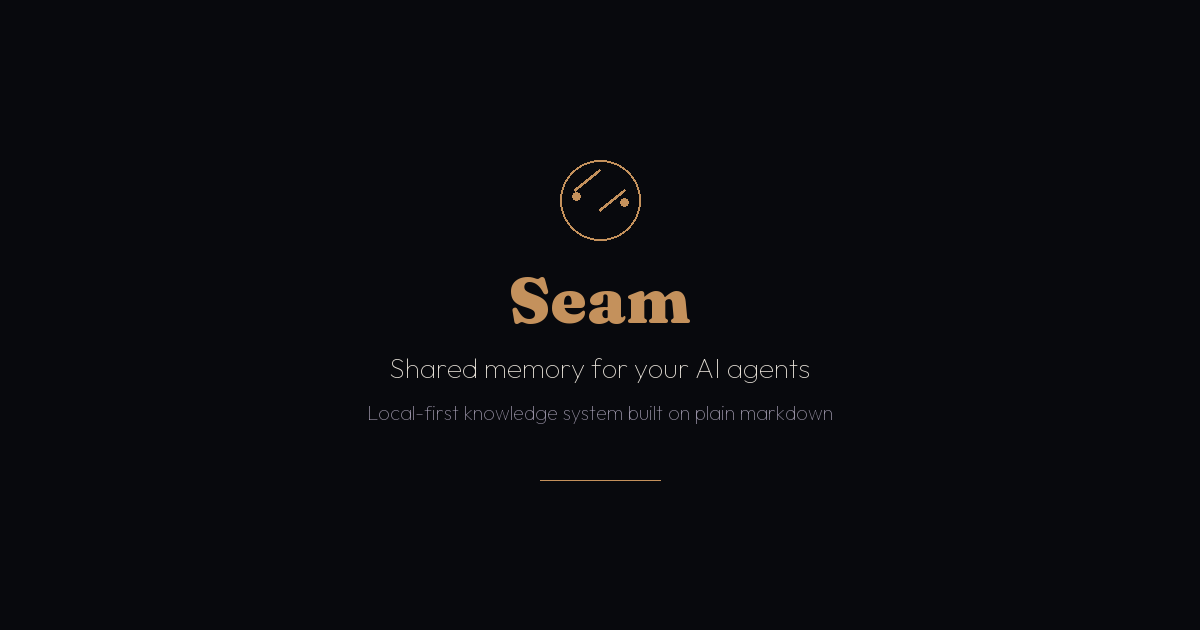
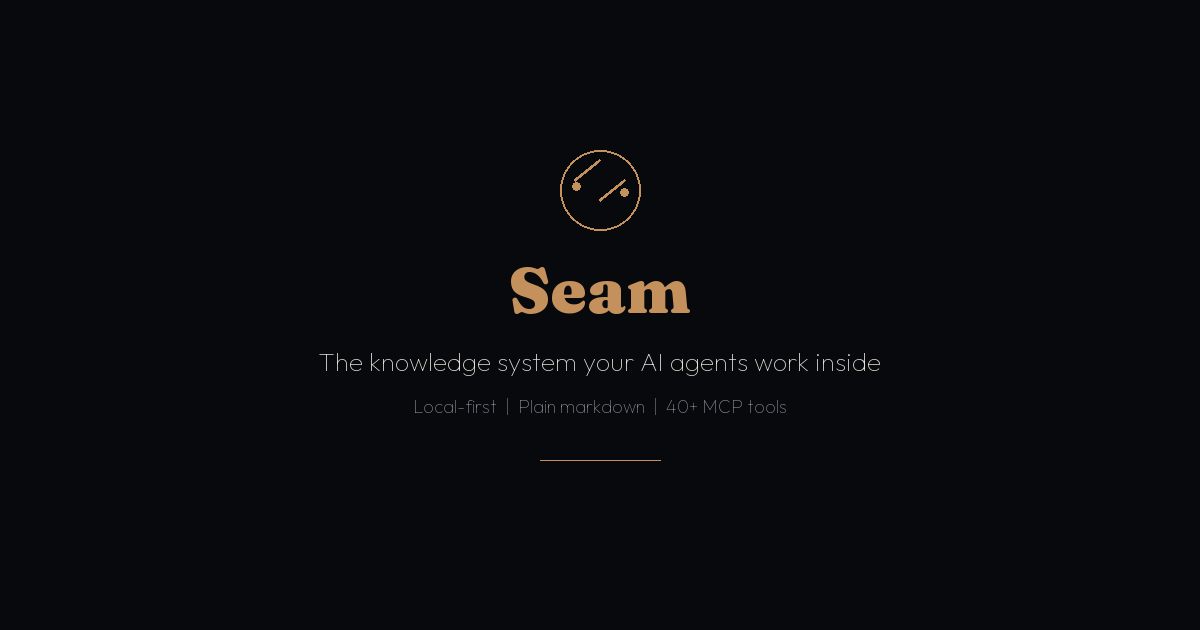
docs: reposition from "memory layer" to "knowledge system agents work inside"
Competitive research showed "shared memory for AI agents" is commodity
messaging (Mem0, Basic Memory, MemMachine all claim it). Seam's actual
differentiator is that it's a full knowledge system -- notes, projects,
tasks, wikilinks, knowledge graph, daily briefings, librarian -- that
agents operate inside through 40+ MCP tools. Not a key-value store.

Updated: README tagline and narrative, landing page hero/meta/OG tags,
MCP doc opening, AI doc opening, OG image.

diff --git a/docs/index.html b/docs/index.html
@@ -3,21 +3,21 @@
 <head>
 <meta charset="utf-8">
 <meta name="viewport" content="width=device-width, initial-scale=1">
-<title>Seam -- Shared Memory for Your AI Agents</title>
-<meta name="description" content="Seam gives your AI agents shared, persistent memory through an MCP server. Plain markdown files on disk, 100% local by default. Works with Claude Code, Cursor, and any MCP-compatible tool.">
+<title>Seam -- The Knowledge System Your AI Agents Work Inside</title>
+<meta name="description" content="Seam is a local-first knowledge system that your AI agents work inside -- not just a memory layer. Notes, projects, tasks, knowledge graph, and 40+ MCP tools. Plain markdown, 100% local. Works with Claude Code, Cursor, and any MCP client.">
 <meta name="theme-color" content="#08090d">
 <link rel="canonical" href="https://0x3k.github.io/seam/">
 
 <meta property="og:type" content="website">
-<meta property="og:title" content="Seam -- Shared Memory for Your AI Agents">
-<meta property="og:description" content="Your agents forget everything between conversations. Seam gives them persistent context through plain markdown files on your machine.">
+<meta property="og:title" content="Seam -- The Knowledge System Your AI Agents Work Inside">
+<meta property="og:description" content="Not a memory layer -- a full knowledge system your agents operate inside. Notes, projects, tasks, knowledge graph, 40+ MCP tools. Local-first, plain markdown.">
 <meta property="og:image" content="https://0x3k.github.io/seam/og-image.png">
 <meta property="og:url" content="https://0x3k.github.io/seam/">
 <meta property="og:site_name" content="Seam">
 
 <meta name="twitter:card" content="summary_large_image">
-<meta name="twitter:title" content="Seam -- Shared Memory for Your AI Agents">
-<meta name="twitter:description" content="Your agents forget everything between conversations. Seam gives them persistent context through plain markdown files on your machine.">
+<meta name="twitter:title" content="Seam -- The Knowledge System Your AI Agents Work Inside">
+<meta name="twitter:description" content="Not a memory layer -- a full knowledge system your agents operate inside. Notes, projects, tasks, knowledge graph, 40+ MCP tools. Local-first, plain markdown.">
 <meta name="twitter:image" content="https://0x3k.github.io/seam/og-image.png">
 
 <link rel="icon" href="seam.svg" type="image/svg+xml">
@@ -33,7 +33,7 @@
   "@context": "https://schema.org",
   "@type": "SoftwareApplication",
   "name": "Seam",
-  "description": "A local-first knowledge system that serves as shared memory for AI agents through an MCP server. Plain markdown files on disk.",
+  "description": "A local-first knowledge system -- notes, projects, tasks, knowledge graph -- that AI agents work inside through 40+ MCP tools. Plain markdown files on disk.",
   "url": "https://0x3k.github.io/seam/",
   "applicationCategory": "DeveloperApplication",
   "operatingSystem": "macOS, Linux",
@@ -587,8 +587,8 @@ a:focus-visible, button:focus-visible {
       <circle cx="30" cy="45" r="4" fill="#c4915c"/>
       <circle cx="70" cy="60" r="4" fill="#c4915c"/>
     </svg>
-    <h1 id="hero-heading">Shared memory for your AI agents</h1>
-    <p class="hero-sub">Your agents forget everything between conversations. Seam gives them persistent context through plain markdown files on your machine.</p>
+    <h1 id="hero-heading">The knowledge system your AI agents work inside</h1>
+    <p class="hero-sub">Not a memory layer. A full workspace -- notes, projects, tasks, knowledge graph -- that every agent operates inside through MCP. Plain markdown on your machine.</p>
     <div class="hero-ctas">
       <a href="#quickstart" class="btn-primary">Get Started</a>
       <a href="https://github.com/0x3k/seam" class="btn-ghost">View on GitHub</a>
@@ -600,16 +600,16 @@ a:focus-visible, button:focus-visible {
 <!-- PROBLEM -->
 <section class="problem" aria-labelledby="problem-heading">
   <div class="container">
-    <h2 id="problem-heading" class="section-title fade-in">The problem with AI agents today</h2>
-    <p class="section-sub fade-in">You talk to a lot of agents. Claude Code for one task, Cursor for another. Each one starts from zero.</p>
+    <h2 id="problem-heading" class="section-title fade-in">Memory layers aren't enough</h2>
+    <p class="section-sub fade-in">Your agents need more than a key-value store. They need a workspace.</p>
     <div class="pain-grid">
       <div class="pain-card fade-in">
         <svg viewBox="0 0 32 32" fill="none" xmlns="http://www.w3.org/2000/svg" aria-hidden="true">
           <circle cx="16" cy="16" r="14" stroke="#c4915c" stroke-width="1.5" fill="none"/>
           <path d="M12 12l8 8M20 12l-8 8" stroke="#c4915c" stroke-width="1.5" stroke-linecap="round"/>
         </svg>
-        <h3>Agents forget everything</h3>
-        <p>Every conversation is a blank slate. Context from your last session doesn't carry over to this one.</p>
+        <h3>Memory stores forget structure</h3>
+        <p>Key-value pairs and vector embeddings don't capture how ideas relate, which project they belong to, or what tasks remain.</p>
       </div>
       <div class="pain-card fade-in">
         <svg viewBox="0 0 32 32" fill="none" xmlns="http://www.w3.org/2000/svg" aria-hidden="true">
@@ -617,16 +617,16 @@ a:focus-visible, button:focus-visible {
           <circle cx="22" cy="16" r="4" stroke="#c4915c" stroke-width="1.5" fill="none"/>
           <path d="M14 16h4" stroke="#c4915c" stroke-width="1.5" stroke-dasharray="2 2"/>
         </svg>
-        <h3>Knowledge gets lost</h3>
-        <p>What one agent discovers, the other will never know. Reasoning, dead ends, and decisions vanish.</p>
+        <h3>Agents can't collaborate</h3>
+        <p>Your morning session in Claude Code and your afternoon session in Cursor are isolated worlds. No shared context, no handoff.</p>
       </div>
       <div class="pain-card fade-in">
         <svg viewBox="0 0 32 32" fill="none" xmlns="http://www.w3.org/2000/svg" aria-hidden="true">
           <path d="M8 10h16M8 16h12M8 22h14" stroke="#c4915c" stroke-width="1.5" stroke-linecap="round"/>
           <path d="M26 20l-3 3-3-3" stroke="#c4915c" stroke-width="1.5" stroke-linecap="round" stroke-linejoin="round" fill="none"/>
         </svg>
-        <h3>You re-explain context</h3>
-        <p>Re-sharing decisions, re-explaining architecture, watching agents rediscover things you already know.</p>
+        <h3>You are the integration layer</h3>
+        <p>You end up copying context between conversations, re-explaining decisions, and doing the work your tools should do for each other.</p>
       </div>
     </div>
     <figure class="fade-in">
@@ -638,8 +638,8 @@ a:focus-visible, button:focus-visible {
 <!-- HOW IT WORKS -->
 <section class="how-it-works" aria-labelledby="how-heading">
   <div class="container">
-    <h2 id="how-heading" class="section-title fade-in">How Seam connects your agents</h2>
-    <p class="section-sub fade-in">Every MCP-compatible agent -- Claude Code, Cursor, Windsurf -- reads from and writes to the same knowledge base.</p>
+    <h2 id="how-heading" class="section-title fade-in">Agents work inside, not on top</h2>
+    <p class="section-sub fade-in">Every MCP-compatible agent -- Claude Code, Cursor, Windsurf -- operates inside the same knowledge system.</p>
     <div class="steps-grid">
       <div class="step fade-in">
         <h3>Start a session</h3>
@@ -660,8 +660,8 @@ a:focus-visible, button:focus-visible {
 <!-- FEATURES -->
 <section class="features" aria-labelledby="features-heading">
   <div class="container">
-    <h2 id="features-heading" class="section-title fade-in">Everything you need</h2>
-    <p class="section-sub fade-in">A complete knowledge system, not just a memory layer.</p>
+    <h2 id="features-heading" class="section-title fade-in">A workspace, not a key-value store</h2>
+    <p class="section-sub fade-in">Notes, projects, tasks, search, a knowledge graph, and an AI that organizes it all.</p>
     <div class="features-grid">
       <div class="feature-card fade-in">
         <span class="feature-badge badge-amber">MCP</span>
@@ -715,7 +715,7 @@ a:focus-visible, button:focus-visible {
   <span class="punc">}</span>
 <span class="punc">}</span></pre>
     </div>
-    <p class="mcp-caption fade-in">That's it. Your agent now has persistent memory and access to your knowledge base.</p>
+    <p class="mcp-caption fade-in">That's it. Your agent now works inside your knowledge system -- not just reads from a memory store.</p>
   </div>
 </section>
 

diff --git a/README.md b/README.md
@@ -9,7 +9,7 @@
 
 <p align="center">
   <strong>Where ideas connect.</strong><br/>
-  <em>Shared memory for you and your AI agents. Local-first, built on plain markdown.</em>
+  <em>The knowledge system your AI agents work inside.</em>
 </p>
 
 <p align="center">
@@ -26,17 +26,17 @@
   <img src="./resources/feature-image.webp" alt="Seam -- where things connect" width="100%">
 </p>
 
-You talk to a lot of agents. Claude Code for one task, Cursor for another, a research session here, a debugging session there. Each one starts from zero. What you figured out in one conversation doesn't carry over to the next. What one agent discovered, the other will never know. The knowledge that didn't make it into code or your own memory is gone.
+You talk to a lot of agents. Claude Code for backend, Cursor for frontend, a research conversation, a debugging session. Each one is a separate context window that forgets everything when it closes. The reasoning, the dead ends, the decisions that didn't make it into a commit -- gone.
 
-Seam is the fix. It's a local knowledge base -- plain `.md` files on disk -- with an [MCP server](docs/mcp.md) that gives every agent you work with shared, persistent memory. Start a coding session and your agent gets a briefing: what happened in past sessions, what other agents found, what's on your plate. End the session and findings are preserved for next time. Your agents stop being isolated conversations and start being a team that builds on each other's work.
+Memory layers try to fix this by giving agents a key-value store. Seam goes further: it's a full knowledge system -- notes, projects, tasks, wikilinks, a knowledge graph, daily briefings, autonomous organization -- that your agents work *inside*, not just read from. They search your notes, create new ones, manage projects, collaborate through shared research labs, and build on each other's findings. Your knowledge base and their context are the same plain `.md` files on disk.
 
-Everything runs on your machine by default. Your notes, your AI, your vectors -- nothing leaves unless you want it to.
+Everything runs on your machine by default. Local AI, local storage, nothing leaves unless you want it to.
 
 > **Seam** -- _the join between two pieces._ Knowledge gains meaning at the intersections.
 
 ## Why Seam
 
-**Your agents forget everything.** Every conversation is a blank slate. You re-explain context, re-share decisions, watch agents rediscover things you already know. Seam gives every MCP-compatible agent -- Claude Code, Cursor, Windsurf, anything -- access to persistent memory, session history, and your full knowledge base. What one agent learns, the next one knows.
+**Not a memory layer -- a knowledge system.** Memory layers store key-value pairs. Seam gives your agents a full workspace: notes with wikilinks and tags, projects, tasks, a knowledge graph, semantic search, daily briefings, and an autonomous librarian that organizes it all. Every MCP-compatible agent -- Claude Code, Cursor, Windsurf -- works inside the same system. What one agent learns, the next one knows.
 
 **Your notes are files.** Not rows in someone else's database. Plain markdown with YAML frontmatter, organized in folders. Edit them with Seam, vim, VS Code, or anything else. Back them up with git, sync them with Syncthing, grep them from the terminal. No export step because there's nothing to export from.
 
@@ -44,9 +44,9 @@ Everything runs on your machine by default. Your notes, your AI, your vectors --
 
 ## What You Can Do
 
-### Connect all your agents
+### Give your agents a workspace, not a scratchpad
 
-Seam's [MCP server](docs/mcp.md) turns isolated agent conversations into a connected workflow. Every agent reads from and writes to the same knowledge base -- session plans, findings, research notes, decisions. Multiple agents can [collaborate](docs/mcp.md#research-lab) on the same investigation through session hierarchies and shared research labs. Your afternoon debugging session in Cursor knows what your morning architecture session in Claude Code decided.
+Seam's [MCP server](docs/mcp.md) exposes 40+ tools that let agents operate inside your knowledge base -- not just store memories, but search notes, create new ones, manage projects, track tasks, traverse the knowledge graph, and collaborate through shared [research labs](docs/mcp.md#research-lab). Your afternoon debugging session in Cursor knows what your morning architecture session in Claude Code decided, because they worked in the same system.
 
 ### Ask your notes anything
 

diff --git a/docs/mcp.md b/docs/mcp.md
@@ -2,15 +2,16 @@
 
 You work with many agents. A Claude Code session for backend work, a Cursor session for frontend, a research conversation for architecture decisions. Each one is a separate context window. Each one forgets everything when the conversation ends. The insight from your morning session doesn't exist in your afternoon session. What one agent discovered, the other will never know. The knowledge that didn't make it into code -- the reasoning, the dead ends, the decisions -- is lost.
 
-Seam is the shared memory layer for all of them. It exposes an [MCP (Model Context Protocol)](https://modelcontextprotocol.io/) server at `/api/mcp` that gives any compatible agent persistent long-term memory, structured session tracking, and direct access to your knowledge base.
+Most "agent memory" solutions offer a key-value store with vector search. Seam is different: it exposes a full knowledge system -- notes, projects, tasks, a knowledge graph, daily briefings -- as an [MCP (Model Context Protocol)](https://modelcontextprotocol.io/) server at `/api/mcp`. Your agents don't just store and retrieve memories. They operate inside the same workspace you do.
 
-**What changes:**
+**What agents can do inside Seam:**
 
-- An agent **starts a session** and gets a briefing: what happened in past sessions, what other agents found, open tasks, relevant notes.
-- During work, it **stores findings** -- architectural decisions, debugging insights, research notes -- as persistent memory that survives after the conversation ends.
-- When it finishes, it **records what it learned** so the next session picks up where this one left off.
-- Multiple agents **collaborate** on the same problem through session hierarchies and shared [research labs](#research-lab). Agent B sees what Agent A tried and decided.
-- Every agent can **search, read, and create notes** in the same knowledge base -- your notes become shared context between you and all of your tools.
+- **Start a session** and get a briefing: what happened in past sessions, what other agents found, open tasks, relevant notes.
+- **Search, read, create, and organize notes** -- the same `.md` files you work with. Not a parallel memory store, but the actual knowledge base.
+- **Manage projects and tasks** -- create projects, track checkbox tasks from notes, check what's on the plate.
+- **Traverse the knowledge graph** -- follow wikilinks, backlinks, and two-hop connections to find related context.
+- **Collaborate** on the same problem through session hierarchies and shared [research labs](#research-lab). Agent B sees what Agent A tried and decided.
+- **Record findings** that persist after the conversation ends, so the next session picks up where this one left off.
 
 ## Connecting
 

diff --git a/docs/ai.md b/docs/ai.md
@@ -1,6 +1,6 @@
 # AI & Assistant
 
-Seam's AI layer works both sides: it helps *you* think, search, and write inside your knowledge base, and it gives your *agents* the context they need to be useful across sessions. Everything runs locally by default through Ollama -- no API keys, no usage meters, no one reading your notes. Switch providers with one config line when you need more power.
+Seam's AI layer works both sides: it helps *you* think, search, and write inside your knowledge base, and it gives your *agents* a structured workspace to operate in across sessions -- not just a memory store, but the same notes, projects, and tasks you work with. Everything runs locally by default through Ollama. No API keys, no usage meters, no one reading your notes. Switch providers with one config line when you need more power.
 
 ## Providers
 
